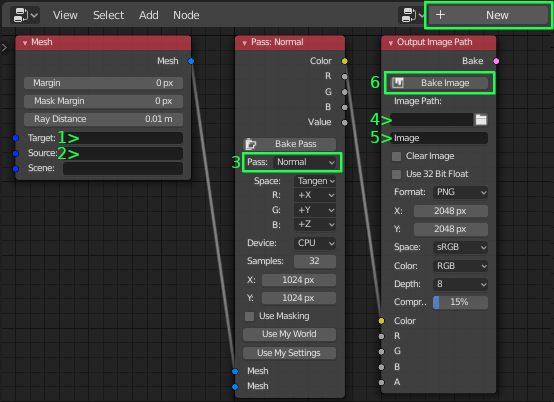
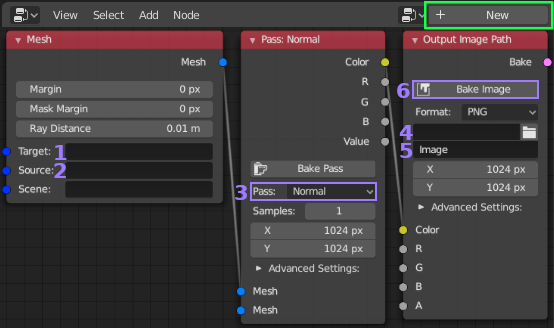
Updates for latest version

diff --git a/pass.rst b/pass.rst
@@ -18,27 +18,20 @@ Outputs can be connected in any combination to any number of
    |br|
    
 2. **Pass:** Drop down list to select bake *pass*. Some passes may
-   have additional options which will appear below this when selected.
+   have additional options which will appear below when selected.
    Tool-tips are used to explain their functions. Additionally some
    passes require a *Principled BDSF* based material on the objects,
    the tool-tip on the *pass* should list any requirements.
    |br|
-   
-3. **Device:** Simple choice between *CPU* or *GPU* as rendering device.
-   When the node is places this will default to your scenes currently
-   selected device. While not usually an issue when baking, if a render
-   exceeds the available memory of your *GPU* it will fail. This isn't
-   the case for *CPU* making it the *safe* option.
-   |br|
-   
-4. **Samples:** This is the number of samples taken for each pixel in the
+
+3. **Samples:** This is the number of samples taken for each pixel in the
    bake. For most *passes* (any PBR map, normals, etc) **one** sample is
    sufficient. When lighting information is needed (eg. AO *pass*) more
    samples will be needed to produce a good result. If in doubt start with
    one sample and increase if the result isn't good enough.
    |br|
    
-5. **X and Y Resolution:** Sets the width and height of the bake in pixels.
+4. **X and Y Resolution:** Sets the width and height of the bake in pixels.
    This is **not** the final size of the output, just the size of this bake
    *pass*. This is intended to facilitate a couple of scenarios, the most
    common being *down sampling* into the final image. This is a useful
@@ -49,8 +42,19 @@ Outputs can be connected in any combination to any number of
    render time can be saved by baking the lower detail objects at a lower
    resolution.
    |br|
+
+5. **Advanced Settings:** Collapses or expands the more advanced or less
+   used settings to reduce clutter and node footprint.
+   |br|
    
-6. **Use Masking:** Enabling this option will create a second image of the
+6. **Device:** Simple choice between *CPU* or *GPU* as rendering device.
+   When the node is places this will default to your scenes currently
+   selected device. While not usually an issue when baking, if a render
+   exceeds the available memory of your *GPU* it will fail. This isn't
+   the case for *CPU* making it the *safe* option.
+   |br|
+   
+7. **Use Masking:** Enabling this option will create a second image of the
    same size, where white pixels (*1s*) map to the UV islands of the bake
    and black pixels (*0s*) map to pixels that aren't part of an island. This
    map will automatically be used when writing to the final output to leave
@@ -60,13 +64,13 @@ Outputs can be connected in any combination to any number of
    at the :doc:`egmasking` for an example.
    |br|
    
-7. **Use My World:** If you want to use lighting information from your scenes world
+8. **Use My World:** If you want to use lighting information from your scenes world
    in the *pass*, you need to enable this option and select the '*World*' you want
    to use (if left blank, but enabled the currently active scenes world is used).
    By default Bake Wrangler uses a plain 100% white world background.
    |br|
   
-8. **Use My Settings:** Enabling this causes Bake Wranglers default rendering settings
+9. **Use My Settings:** Enabling this causes Bake Wranglers default rendering settings
    to be replaced with the settings from the '*Scene*' you select (if left blank, but
    enabled the currently active scenes settings are used). The default render settings
    used by Bake Wrangler are optimized to quickly render maps without lighting information
@@ -74,6 +78,10 @@ Outputs can be connected in any combination to any number of
    that are changed by passing through objects (glass, fog, etc) then you will need to
    use this setting with appropriate *Cycles* values set in your scene. For any PBR maps
    and most data maps this should be disabled for best performance.
+   |br|
+
+10. **Additional Pass Settings:** If the selected pass has additional options they are
+    displayed here. Use the tool-tips to see what they do, or if in doubt leave at default.
 
 .. |br| raw:: html
 

diff --git a/outputimgpath.rst b/outputimgpath.rst
@@ -21,25 +21,42 @@ for linking to one or more :doc:`batchbake` nodes if desired.
    non-batch bake. For the differences with the similar *Bake Pass* button
    take a look at the :doc:`egpassvimg` example.
    |br|
+
+2. **Format:** Drop down list of supported image formats. This will default
+   to the output format selected for your current scene when placing the node.
+   The options in section *[7]* will change depending on the format chosen.
+   |br|
    
-2. **Image Path:** Simply used to select the path where the image will be
+3. **Image Path:** Simply used to select the path where the image will be
    saved. Relative paths may be used (*eg. // to refer to the path the .blend
    file is in*).
    |br|
    
-3. **Image Name:** The name of the image with or without the extension. The
+4. **Image Name:** The name of the image with or without the extension. The
    extension will be added for the currently selected file format unless you
    have given the file an extension that isn't recognized (*eg. if format was
    set to 'JPEG' both 'img' and 'img.png' would be saved as 'img.jpg' but
    'img.myext' would not be changed*).
    |br|
    
-4. **Clear Image:** When enabled and if the target image already exists, it
+5. **X and Y Resolution:** Set the width and height in pixels of the final output
+   image. Using a lower value than the bake pass allows for down sampling. Note
+   that for performance reasons most real time rendering engines will expect your
+   texture maps to be a power of two (*eg. 512, 1024, 2048, 4096, etc*). Also
+   consider that you can always reduce the detail/size of a higher resolution map,
+   but it's not really possible to increse the detail in a lower resolution map.
+   |br|
+   
+6. **Advanced Settings:** Collapses or expands the more advanced or less
+   used settings to reduce clutter and node footprint.
+   |br|
+   
+7. **Clear Image:** When enabled and if the target image already exists, it
    will clear the image to black (and transparent if supported by image settings)
    before writing bake data.
    |br|
    
-5. **Use 32 Bit Float:** Normally blender renders images using 8bits per channel
+8. **Use 32 Bit Float:** Normally blender renders images using 8bits per channel
    per pixel (24bpp or 32bpp with Alpha). If you want to save your output in a
    format with more data per pixel than that you need to enable this option. All
    contributing :doc:`passes </pass>` will then use 92bpp (128bpp with Alpha).
@@ -51,25 +68,11 @@ for linking to one or more :doc:`batchbake` nodes if desired.
    as they are remapped to a lower bit depth.
    |br|
    
-6. **Format:** Drop down list of supported image formats. This will default
-   to the output format selected for your current scene when placing the node.
-   The options in section *[7]* will change depending on the format chosen.
-   |br|
-   
-7. **X and Y Resolution:** Set the width and height in pixels of the final output
-   image. Using a lower value than the bake pass allows for down sampling. Note
-   that for performance reasons most real time rendering engines will expect your
-   texture maps to be a power of two (*eg. 512, 1024, 2048, 4096, etc*). Also
-   consider that you can always reduce the detail/size of a higher resolution map,
-   but it's not really possible to increse the detail in a lower resolution map.
-   |br|
-   
-8. **Format Options:** This group of options are specific to the chosen image format
+9. **Format Options:** This group of options are specific to the chosen image format
    and will change accordingly. Almost all formats support '*Color Space*', if you
    are unsure what to pick use '*sRGB*' for color information and '*Non-Color*' for
    data maps like normals. For any other settings either use the defaults or check
    the tool-tip for more information if you are unsure.
-   |br|
    
 .. |br| raw:: html
 

diff --git a/prefs.rst b/prefs.rst
@@ -5,17 +5,17 @@ Below are the current available preferences and their default settings:
 
 .. image:: /imgs/prefs.png
 
-1. **Messages to Text editor** (*enabled by default*) causes messages and errors
+1. **Messages to Text editor:** (*enabled by default*) causes messages and errors
    produced by Bake Wrangler to be written to a text file named '*BakeWrangler*'
    in the current project. When disabled these messages would only be visible in
    the console.
    |br|
 
-2. **Clear Old Messages** (*enabled by default*) clears the text file prior to
+2. **Clear Old Messages:** (*enabled by default*) clears the text file prior to
    each bake, so that messages are only relevant to the current/last process.
    |br|
    
-3. **Open Text in new Window** (*enabled by default*) will open a new window when
+3. **Open Text in new Window:** (*enabled by default*) will open a new window when
    a bake process starts, displaying the text file (which is continually updated).
    The size and location of the window will match the Bake Node Editor from which the
    bake was started. (Note: The window must be closed manually and will not be reused)
@@ -25,7 +25,30 @@ with the text file already open in it (would disable the pop up window). Or to j
 see it when starting a bake (default). And of course to be able to completely disable
 the system if they prefer the console.*
 
-4. **Save each Pass:** (*disabled by default*) causes the output to be saved after each
+4. **Node Defaults:** Sets the default display state of some nodes. Here the initial
+   filter settings of the :doc:`Objects </objects>` node can be set. You can also have
+   nodes with collapsed advanced options start with them expanded instead. (Applies only
+   to new nodes)
+   |br|
+   
+5. **Render Defaults:** Has settings related to the :doc:`Mesh </mesh>` and :doc:`Pass </pass>`
+   nodes, allowing you to configure their defaults. (Applies only to new nodes)
+   |br|
+   
+6. **Objects Always Visible:** (*disabled by default*) Causes Bake Wrangler to ignore
+   the visibility settings of an object in Blender. When enabled all objects selected
+   as part of a bake will be made visible.
+   |br|
+   
+7. **Output Defaults:** Has settings related to the :doc:`Output Image Path </outputimgpath>`
+   node, allowing you to configure the defaults for newly created nodes.
+   |br|
+   
+8. **Create Paths:** (*disabled by default*) Causes Bake Wrangler to attempt to create
+   the output path if it doesn't exist.
+   |br|
+   
+9. **Save each Pass:** (*disabled by default*) causes the output to be saved after each
    bake pass instead of after all contributing passes. This will reduce performance in
    some cases (especially with Alpha being written every time), but will preserve pass
    data in the event of a later failure or memory shortage. Use it if some pass data
@@ -33,7 +56,7 @@ the system if they prefer the console.*
    progress.
    |br|
 
-5. **Debug** (*disabled by default*) adds more detailed messages to each process and
+10. **Debug** (*disabled by default*) adds more detailed messages to each process and
    if a bake fails with an error condition a complete process log will be opened in a new
    window. **Please post this log when reporting a bug.**
    
